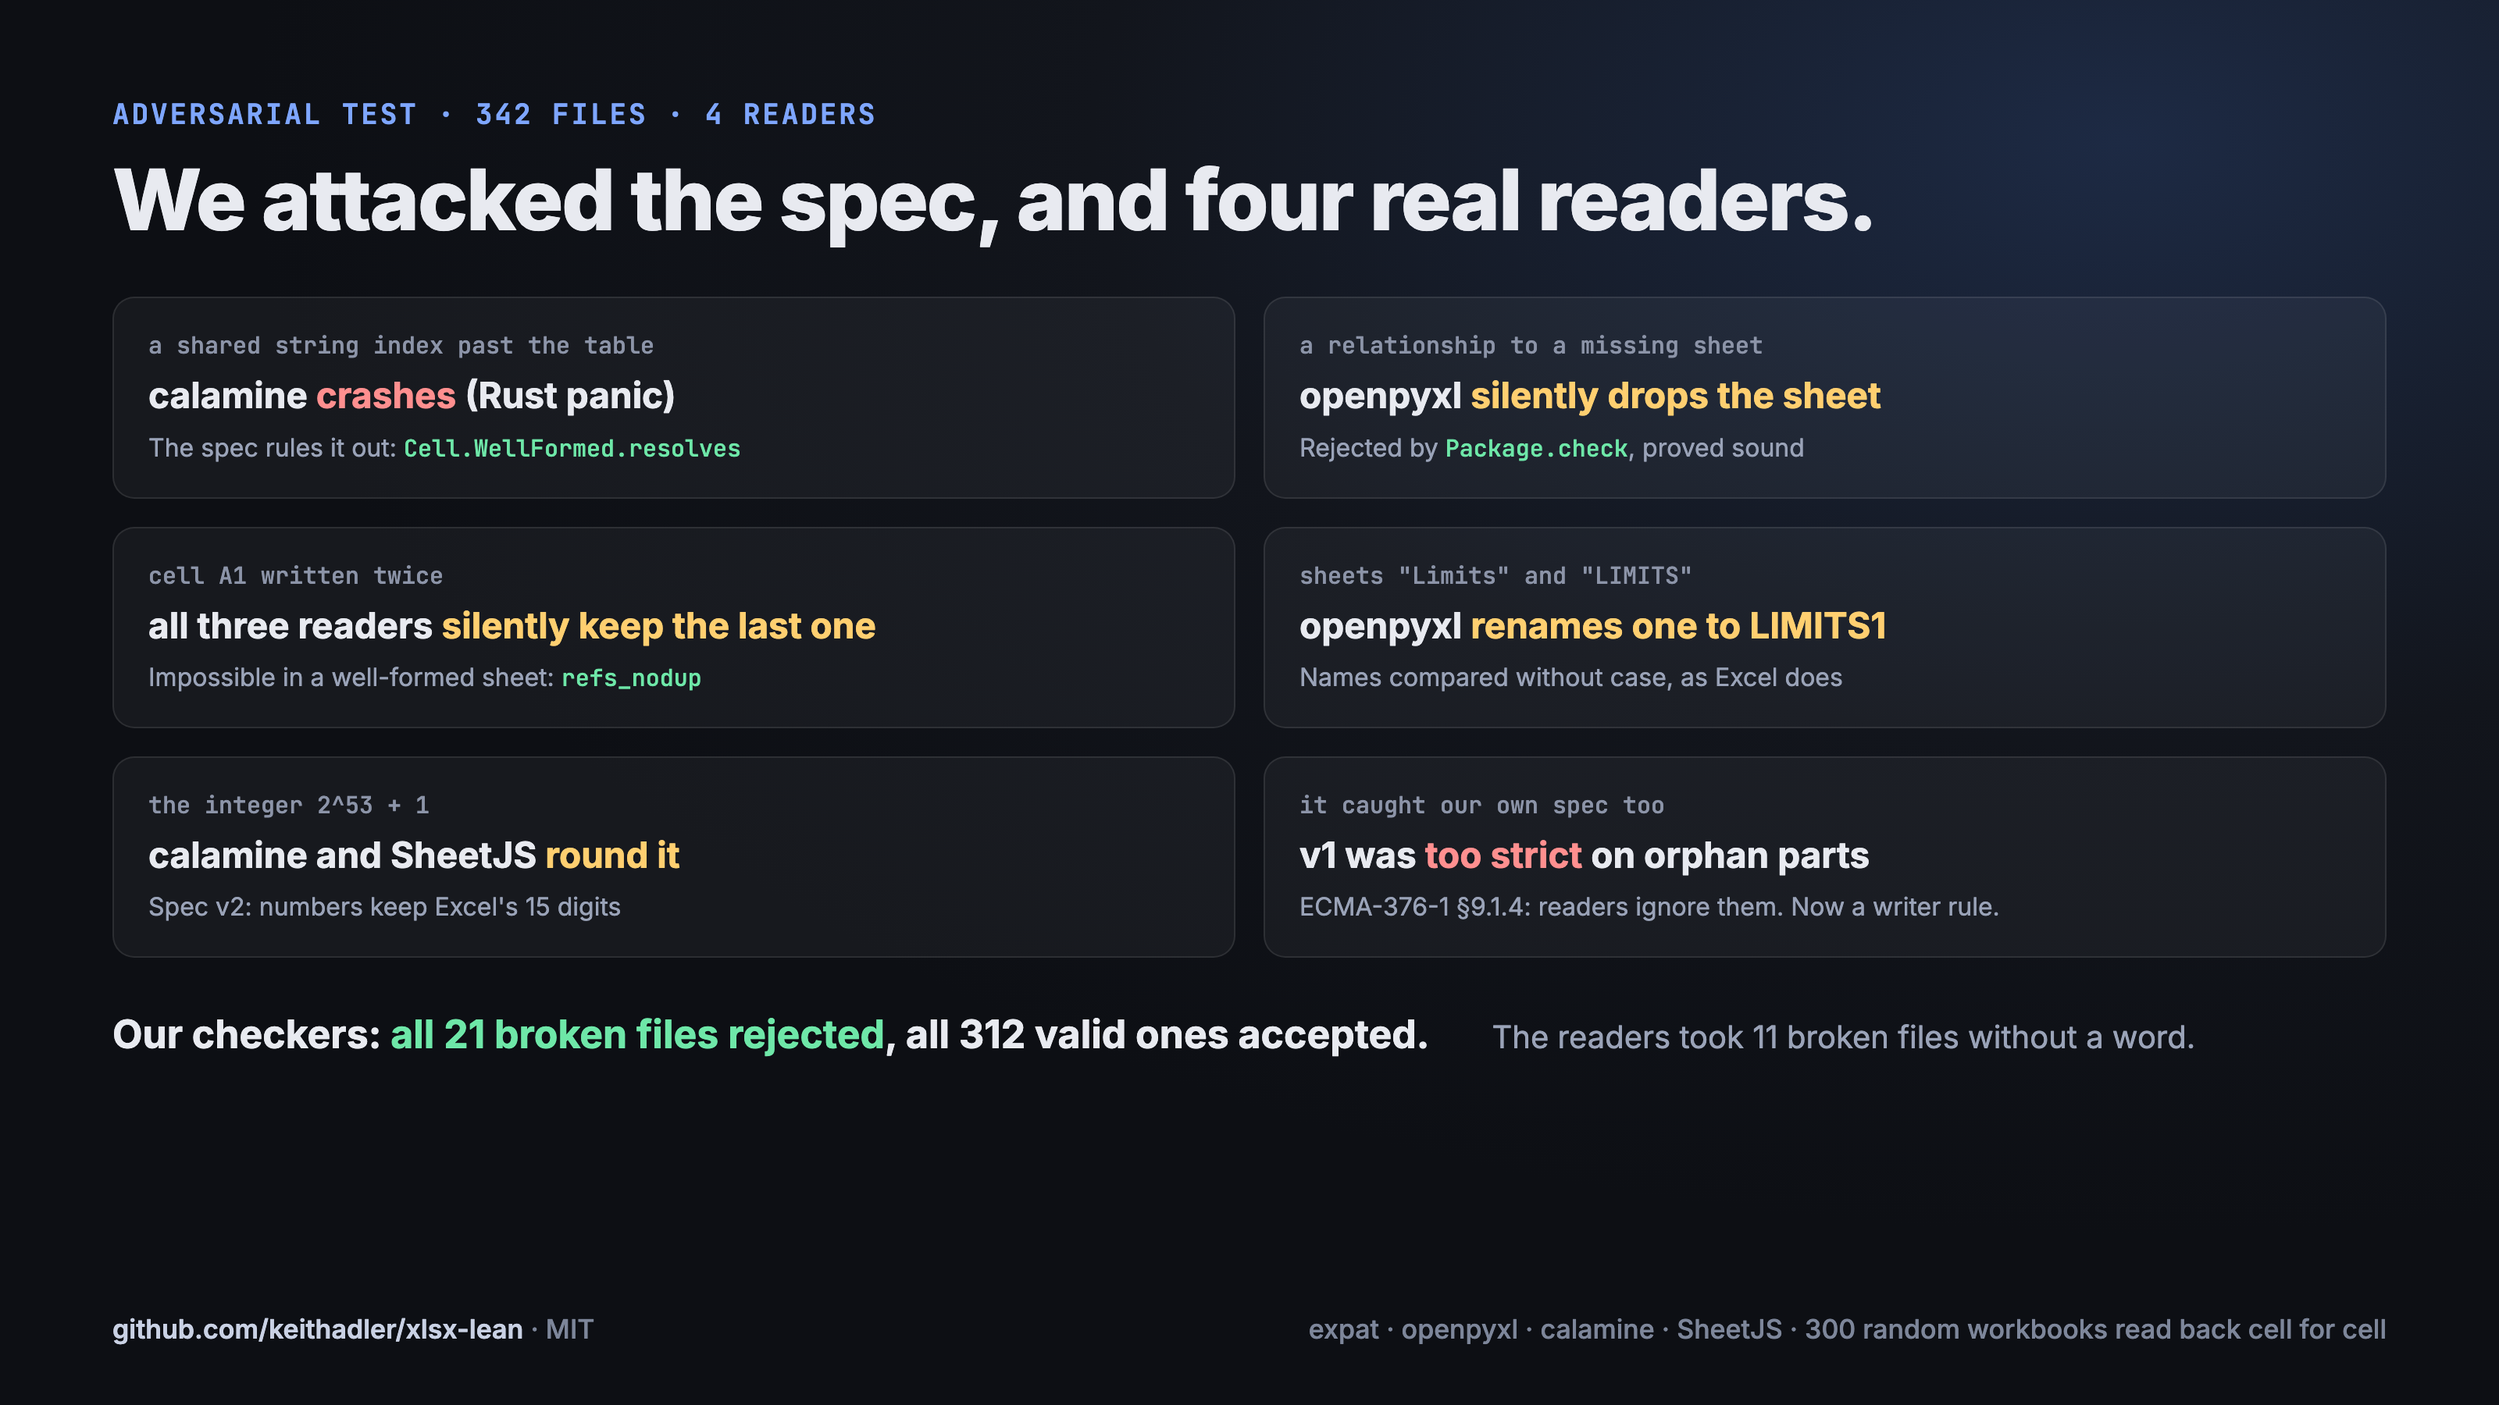
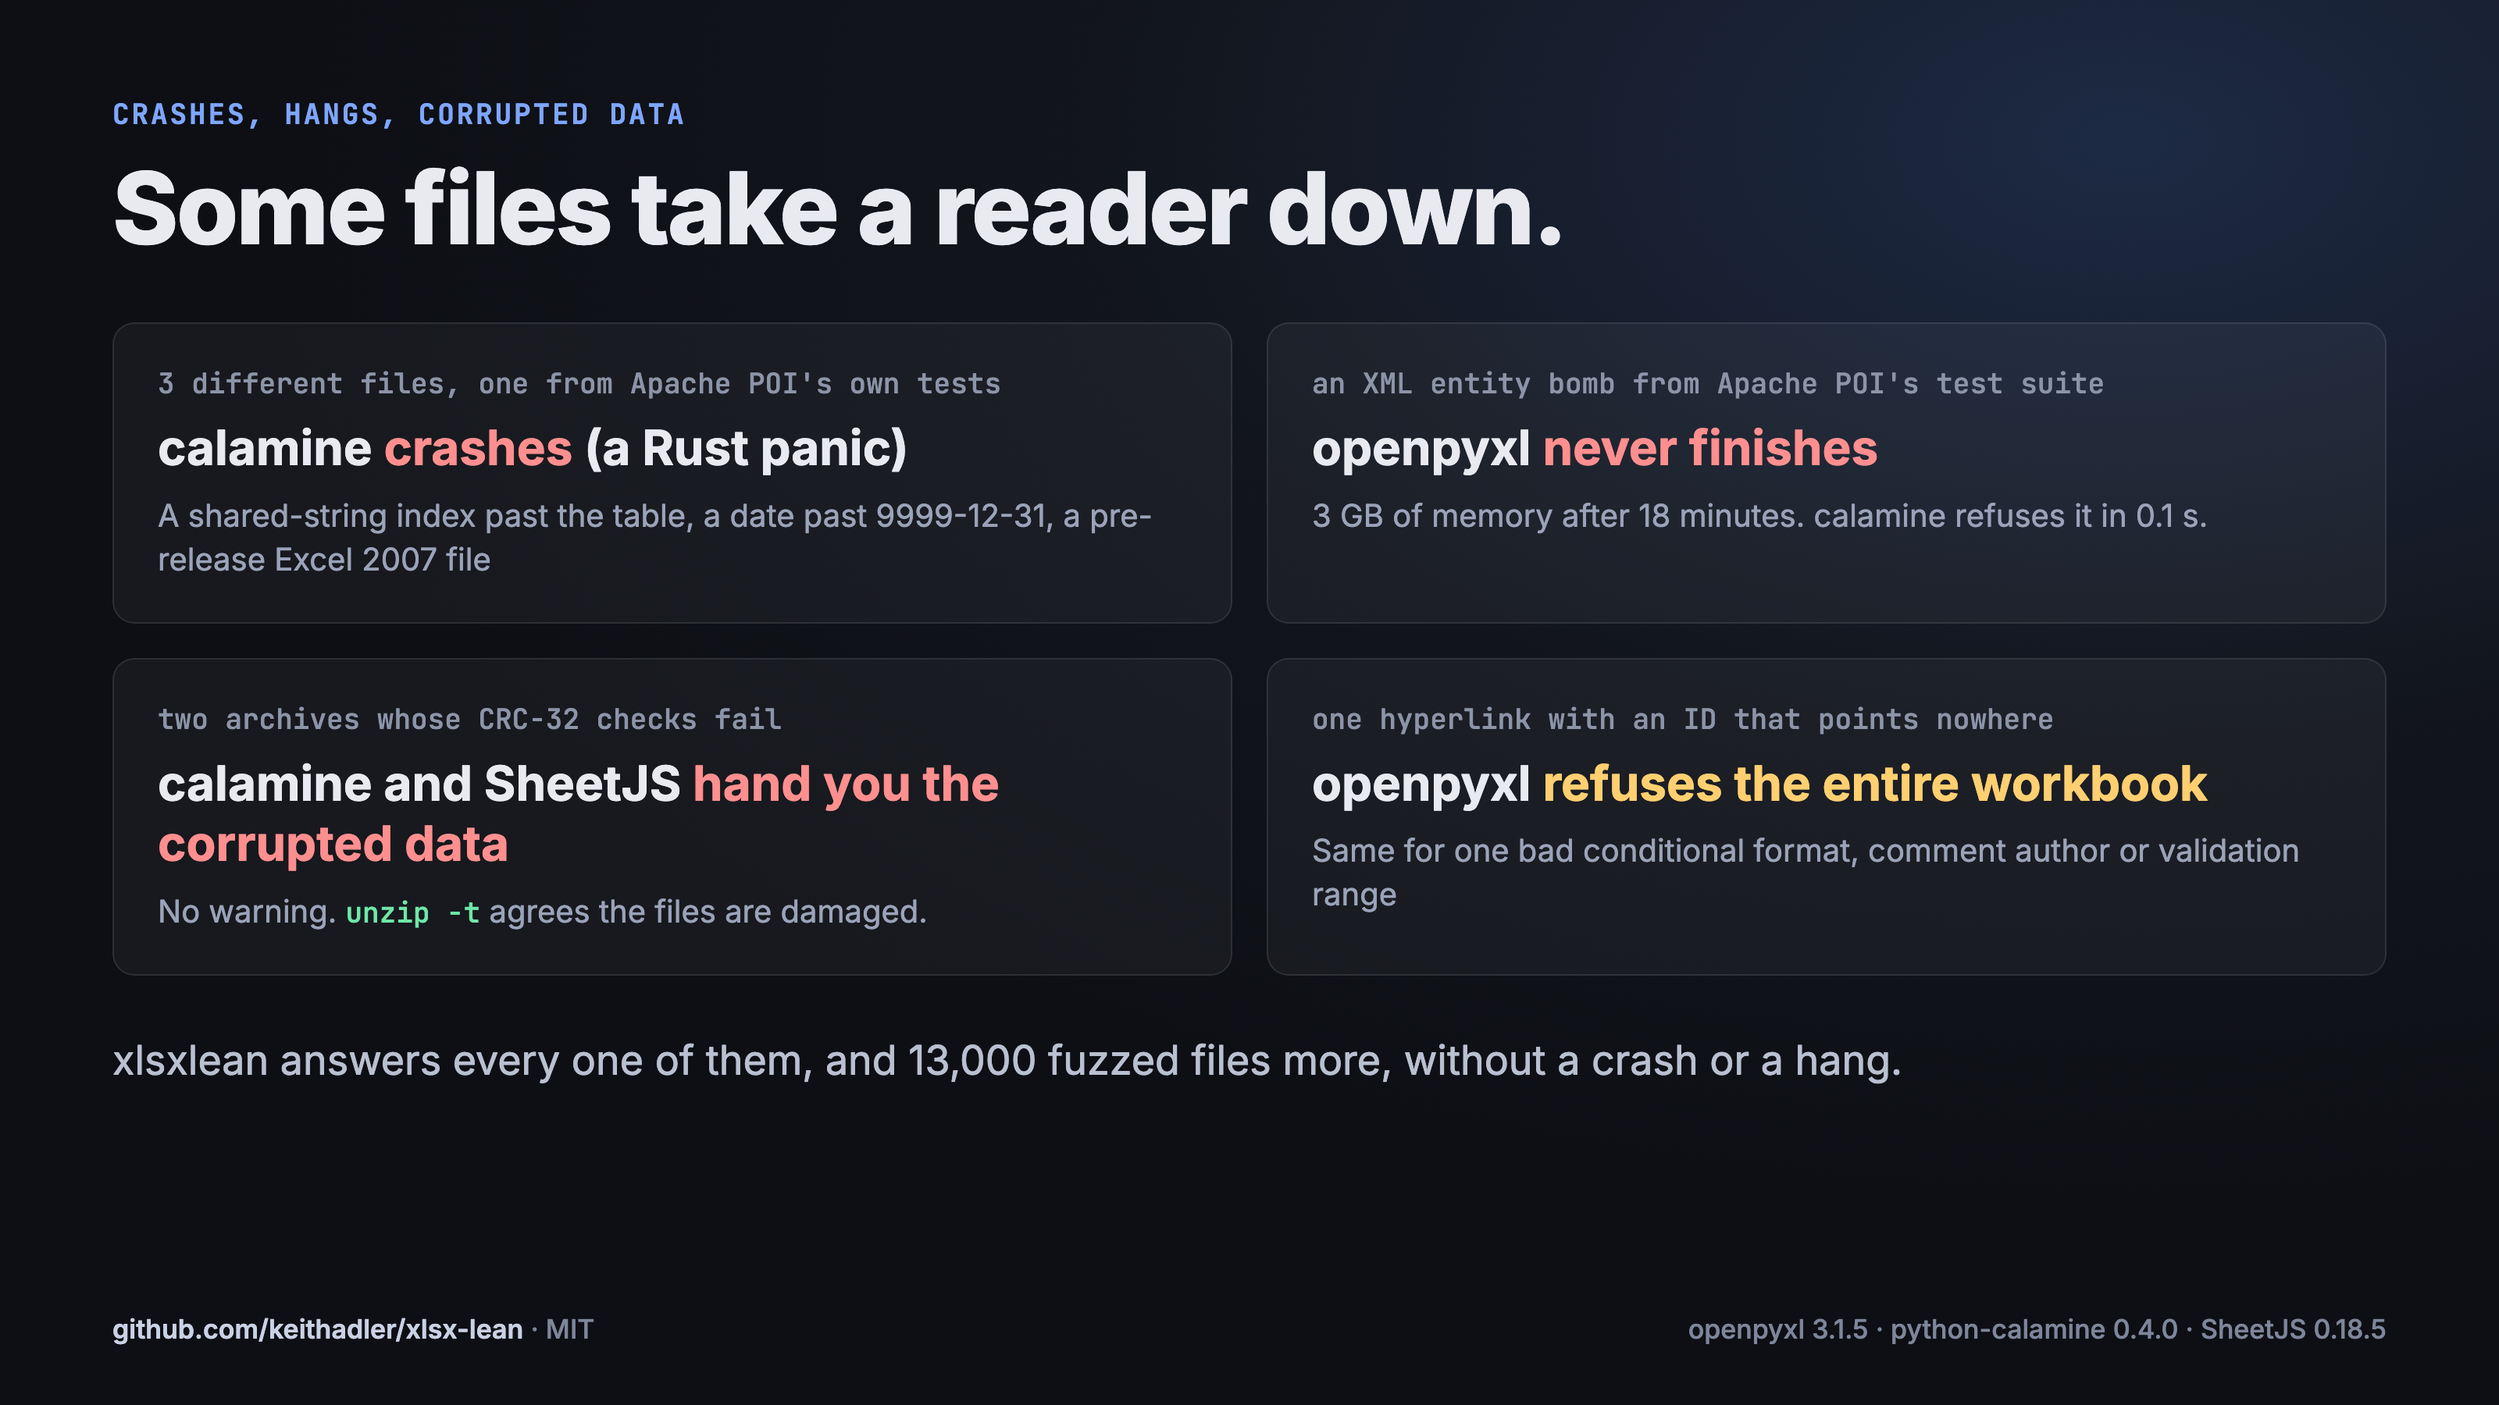
X cards and post: the readers, what they get wrong

diff --git a/docs/x/src/base.css b/docs/x/src/base.css
@@ -1,0 +1,24 @@
+@import url('https://fonts.googleapis.com/css2?family=Inter:wght@400;500;600;700;800&family=JetBrains+Mono:wght@500;700&display=swap');
+* { box-sizing: border-box; margin: 0; }
+html, body { width: 1600px; height: 900px; overflow: hidden; }
+body { background: radial-gradient(1200px 700px at 85% 10%, #1d2a44 0%, #12151c 55%, #0d0f14 100%); color: #e8eaf0; font-family: Inter, system-ui, sans-serif; }
+.card { position: relative; width: 1600px; height: 900px; padding: 64px 72px; display: flex; gap: 48px; }
+.kicker { font: 600 18px/1 'JetBrains Mono', monospace; letter-spacing: .08em; color: #7ea6ff; text-transform: uppercase; }
+h1 { font-weight: 800; font-size: 64px; line-height: 1.04; letter-spacing: -0.02em; margin-top: 18px; }
+h1 em { font-style: normal; color: #6ee7a8; }
+p.lede { font-size: 24px; line-height: 1.42; color: #b9c0d0; margin-top: 22px; }
+.mono { font-family: 'JetBrains Mono', monospace; }
+.shot { border-radius: 16px; overflow: hidden; box-shadow: 0 30px 80px rgba(0,0,0,.55), 0 0 0 1px rgba(255,255,255,.08); background: #1e1f22; }
+.shot img { display: block; width: 100%; }
+.foot { position: absolute; left: 72px; right: 72px; bottom: 40px; display: flex; justify-content: space-between; font: 500 17px/1 Inter; color: #7d869a; }
+.foot b { color: #c9d1e4; font-weight: 600; }
+.stat { display: flex; gap: 34px; margin-top: 34px; }
+.stat div { font-size: 16px; color: #8c94a8; }
+.stat b { display: block; font-size: 40px; font-weight: 800; color: #fff; letter-spacing: -0.02em; margin-bottom: 4px; }
+.grid { display: grid; grid-template-columns: 1fr 1fr; gap: 18px; margin-top: 34px; }
+.f { background: rgba(255,255,255,.045); border: 1px solid rgba(255,255,255,.09); border-radius: 14px; padding: 20px 22px; }
+.f .t { font-size: 15px; font-family: 'JetBrains Mono', monospace; color: #8c94a8; }
+.f .h { font-size: 24px; font-weight: 700; margin-top: 8px; line-height: 1.25; }
+.bad { color: #ff8f8f; } .warn { color: #ffcf70; } .ok { color: #6ee7a8; }
+.f .s { font-size: 16px; color: #9aa3b8; margin-top: 8px; line-height: 1.4; }
+.f .s code, .f .h code { font-family: 'JetBrains Mono', monospace; color: #6ee7a8; font-size: 0.9em; }

diff --git a/docs/x/src/card4.html b/docs/x/src/card4.html
@@ -1,0 +1,22 @@
+<!doctype html><html><head><meta charset="utf-8"><link rel="stylesheet" href="base.css">
+<style>
+table { border-collapse: collapse; width: 100%; margin-top: 34px; font-size: 25px; }
+th { text-align: left; font: 600 17px 'JetBrains Mono', monospace; color: #8c94a8; padding: 10px 14px; border-bottom: 1px solid rgba(255,255,255,.12); }
+td { padding: 18px 14px; border-bottom: 1px solid rgba(255,255,255,.07); }
+td.m { font-family: 'JetBrains Mono', monospace; }
+.ok { color: #6ee7a8; } .bad { color: #ff8f8f; font-weight: 700; } .warn { color: #ffcf70; font-weight: 600; }
+</style></head><body>
+<div class="card" style="flex-direction: column; gap: 0">
+  <div class="kicker">Dates · the 1900 leap-year bug, still here</div>
+  <h1 style="font-size: 54px">Same file. Three readers. Three answers.</h1>
+  <table>
+    <tr><th>serial</th><th>Excel&#39;s rule</th><th>openpyxl</th><th>calamine</th><th>SheetJS 0.18.5</th></tr>
+    <tr><td class="m">1</td><td class="m ok">1900-01-01</td><td class="m ok">1900-01-01</td><td class="m ok">1900-01-01</td><td class="m warn">1899-12-31</td></tr>
+    <tr><td class="m">59</td><td class="m ok">1900-02-28</td><td class="m ok">1900-02-28</td><td class="m ok">1900-02-28</td><td class="m warn">1900-02-27</td></tr>
+    <tr><td class="m">60</td><td class="m ok">1900-02-29</td><td class="m warn">1900-02-28</td><td class="m warn">1900-02-28</td><td class="m warn">1900-02-28</td></tr>
+    <tr><td class="m">45000, 1904 system</td><td class="m ok">2027-03-16</td><td class="m ok">2027-03-16</td><td class="m ok">2027-03-16</td><td class="m warn">2023-03-15</td></tr>
+    <tr><td class="m">3000000</td><td class="m ok">out of range</td><td class="m">#VALUE!</td><td class="m bad">crashes</td><td class="m warn">year 10113</td></tr>
+  </table>
+  <p class="lede" style="font-size: 22px; margin-top: 30px">1900-02-29 never existed; Excel keeps it from Lotus 1-2-3. The spec reads serials as Excel shows them, and a date past 9999-12-31 breaks a rule.</p>
+  <div class="foot"><span><b>github.com/keithadler/xlsx-lean</b> · MIT</span><span>openpyxl 3.1.5 · python-calamine 0.4.0 · SheetJS 0.18.5</span></div>
+</div></body></html>

diff --git a/docs/x/src/card3.html b/docs/x/src/card3.html
@@ -1,0 +1,17 @@
+<!doctype html><html><head><meta charset="utf-8"><link rel="stylesheet" href="base.css"><style>
+.grid { gap: 22px; margin-top: 40px; } .f { padding: 26px 28px; }
+.f .t { font-size: 18px; } .f .h { font-size: 31px; margin-top: 10px; } .f .s { font-size: 20px; margin-top: 10px; }
+</style></head><body>
+<div class="card" style="flex-direction: column; gap: 0">
+  <div class="kicker">Silent changes to your data</div>
+  <h1 style="font-size: 64px">Worse: no error, different data.</h1>
+  <div class="grid">
+    <div class="f"><div class="t">the cell text <code>ax005F_b</code></div><div class="h">openpyxl reads <span class="bad">ab</span></div><div class="s">It deletes every <code>x005F_</code> from shared strings</div></div>
+    <div class="f"><div class="t">a sheet whose link is broken</div><div class="h">openpyxl <span class="bad">silently drops the sheet</span></div><div class="s">and opens the rest as if nothing were missing</div></div>
+    <div class="f"><div class="t">values under a merged range</div><div class="h">openpyxl <span class="bad">throws them away</span></div><div class="s">calamine and SheetJS keep them</div></div>
+    <div class="f"><div class="t">the same sheet in the file twice</div><div class="h">the readers <span class="warn">read different copies</span></div><div class="s">openpyxl and calamine the second, SheetJS the first (Apache POI's test file)</div></div>
+    <div class="f"><div class="t">cell A1 written twice, 1 then 2</div><div class="h">all three <span class="warn">silently keep the 2</span></div><div class="s">The spec rules it out, proved: <code>refs_nodup</code></div></div>
+    <div class="f"><div class="t">the text <code>_x0041_</code>, escaped as the standard says</div><div class="h">openpyxl and calamine <span class="warn">read <code style="color:#ffcf70">_x005F_x0041_</code></span></div><div class="s">in inline strings and sheet names (calamine everywhere); SheetJS gets it right</div></div>
+  </div>
+  <div class="foot"><span><b>github.com/keithadler/xlsx-lean</b> · MIT</span><span>openpyxl 3.1.5 · python-calamine 0.4.0 · SheetJS 0.18.5</span></div>
+</div></body></html>

diff --git a/docs/x/src/card5.html b/docs/x/src/card5.html
@@ -1,0 +1,30 @@
+<!doctype html><html><head><meta charset="utf-8"><link rel="stylesheet" href="base.css">
+<style>
+.term { background: #0b0d12; border: 1px solid rgba(255,255,255,.1); border-radius: 14px; padding: 18px 22px; font: 500 24px/1.65 'JetBrains Mono', monospace; color: #cfd6e4; white-space: pre; }
+.g { color: #6ee7a8; } .r { color: #ff8f8f; } .a { color: #ffcf70; } .d { color: #7d869a; } .b { color: #7ea6ff; }
+</style></head><body>
+<div class="card" style="flex-direction: column; gap: 0">
+  <div class="kicker">xlsxlean check · macOS and Linux</div>
+  <h1 style="font-size: 60px">Check your own files. It names the rule.</h1>
+  <div style="display: flex; gap: 28px; margin-top: 44px; align-items: flex-start">
+    <div class="term" style="flex: 0 0 940px"><span class="d">$</span> ./xlsxlean check duplicate-filename.xlsx
+duplicate-filename.xlsx
+  <span class="r">✗</span> package       <span class="b">Package.check</span>
+  <span class="g">✓</span> spreadsheet   <span class="b">conformsCheck</span>
+  <span class="g">✓</span> workbook      <span class="b">Workbook.check</span>
+
+  where:
+    <span class="r">[names_unique]</span> xl/worksheets/sheet1.xml:
+      in the archive twice
+
+  verdict: <span class="r">breaks the spec</span></div>
+    <div style="flex: 1; display: flex; flex-direction: column; gap: 22px; padding-top: 6px">
+      <div class="stat" style="margin-top:0; flex-direction: column; gap: 22px">
+        <div style="font-size:20px"><b style="font-size:48px">352 files in 11 s</b>all of Apache POI's .xlsx test files</div>
+        <div style="font-size:20px"><b style="font-size:48px">316 of 333</b>readable ones follow the spec; the other 17 break it for real</div>
+        <div style="font-size:20px"><b style="font-size:48px">--json, --html</b>for scripts and bug reports</div>
+      </div>
+    </div>
+  </div>
+  <div class="foot"><span><b>github.com/keithadler/xlsx-lean</b> · MIT</span><span>DEFLATE by lean-zip's verified decoder</span></div>
+</div></body></html>

diff --git a/docs/x/src/card2.html b/docs/x/src/card2.html
@@ -1,0 +1,16 @@
+<!doctype html><html><head><meta charset="utf-8"><link rel="stylesheet" href="base.css"><style>
+.grid { gap: 22px; margin-top: 40px; } .f { padding: 26px 28px; }
+.f .t { font-size: 18px; } .f .h { font-size: 31px; margin-top: 10px; } .f .s { font-size: 20px; margin-top: 10px; }
+</style></head><body>
+<div class="card" style="flex-direction: column; gap: 0">
+  <div class="kicker">Crashes, hangs, corrupted data</div>
+  <h1 style="font-size: 64px">Some files take a reader down.</h1>
+  <div class="grid">
+    <div class="f"><div class="t">3 different files, one from Apache POI's own tests</div><div class="h">calamine <span class="bad">crashes</span> (a Rust panic)</div><div class="s">A shared-string index past the table, a date past 9999-12-31, a pre-release Excel 2007 file</div></div>
+    <div class="f"><div class="t">an XML entity bomb from Apache POI's test suite</div><div class="h">openpyxl <span class="bad">never finishes</span></div><div class="s">3 GB of memory after 18 minutes. calamine refuses it in 0.1 s.</div></div>
+    <div class="f"><div class="t">two archives whose CRC-32 checks fail</div><div class="h">calamine and SheetJS <span class="bad">hand you the corrupted data</span></div><div class="s">No warning. <code>unzip -t</code> agrees the files are damaged.</div></div>
+    <div class="f"><div class="t">one hyperlink with an ID that points nowhere</div><div class="h">openpyxl <span class="warn">refuses the entire workbook</span></div><div class="s">Same for one bad conditional format, comment author or validation range</div></div>
+  </div>
+  <p class="lede" style="font-size: 26px; margin-top: 36px">xlsxlean answers every one of them, and 13,000 fuzzed files more, without a crash or a hang.</p>
+  <div class="foot"><span><b>github.com/keithadler/xlsx-lean</b> · MIT</span><span>openpyxl 3.1.5 · python-calamine 0.4.0 · SheetJS 0.18.5</span></div>
+</div></body></html>

diff --git a/docs/x/src/card6.html b/docs/x/src/card6.html
@@ -1,0 +1,18 @@
+<!doctype html><html><head><meta charset="utf-8"><link rel="stylesheet" href="base.css"></head><body>
+<div class="card">
+  <div style="flex: 0 0 640px; padding-top: 10px">
+    <div class="kicker">Why Lean</div>
+    <h1 style="font-size: 58px">The referee has to be <em>right</em> first.</h1>
+    <p class="lede">The spec is written in Lean, and its checkers are proved sound: when a file breaks a rule, it really does. An independent kernel re-checks every proof.</p>
+    <p class="lede" style="font-size: 21px; margin-top: 18px">Testing caught my own mistakes too: rules stricter than the standard, and a writer bug that would have turned the text <span class="mono" style="color:#fff">_x0041_</span> into <span class="mono" style="color:#fff">A</span>.</p>
+    <div class="stat">
+      <div><b>2,280</b>declarations</div>
+      <div><b>0</b>sorry</div>
+      <div><b>0</b>rejected by Tenet</div>
+    </div>
+  </div>
+  <div style="flex: 1; display: flex; align-items: center">
+    <div class="shot" style="width: 100%"><img src="tcrop-package-map.png"></div>
+  </div>
+  <div class="foot"><span><b>github.com/keithadler/xlsx-lean</b> · MIT</span><span>Drawn from Lean's own data: <span class="mono">Workbook.toPackage</span></span></div>
+</div></body></html>

diff --git a/docs/x/src/card1.html b/docs/x/src/card1.html
@@ -1,0 +1,17 @@
+<!doctype html><html><head><meta charset="utf-8"><link rel="stylesheet" href="base.css"></head><body>
+<div class="card">
+  <div style="flex: 0 0 640px; padding-top: 10px">
+    <div class="kicker">XLSX · the readers everyone uses</div>
+    <h1>Most spreadsheets are read by <em>code</em>, not Excel.</h1>
+    <p class="lede">Bank exports, payroll, lab results, data pipelines. That code is mostly openpyxl, calamine and SheetJS. I wrote down exactly what a valid XLSX file is, and tested them against it.</p>
+    <div class="stat">
+      <div><b>382</b>hostile files</div>
+      <div><b>418</b>real test files</div>
+      <div><b>13,000</b>fuzzed files</div>
+    </div>
+  </div>
+  <div style="flex: 1; display: flex; align-items: center">
+    <div class="shot" style="width: 100%"><img src="tcrop-check.png"></div>
+  </div>
+  <div class="foot"><span><b>github.com/keithadler/xlsx-lean</b> · MIT</span><span>openpyxl 3.1.5 · python-calamine 0.4.0 · SheetJS 0.18.5</span></div>
+</div></body></html>
